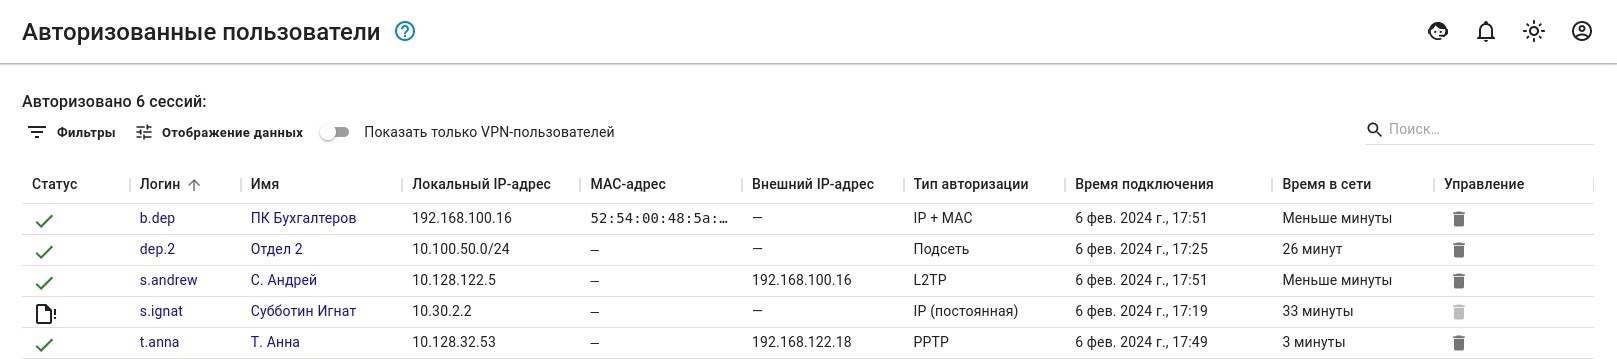
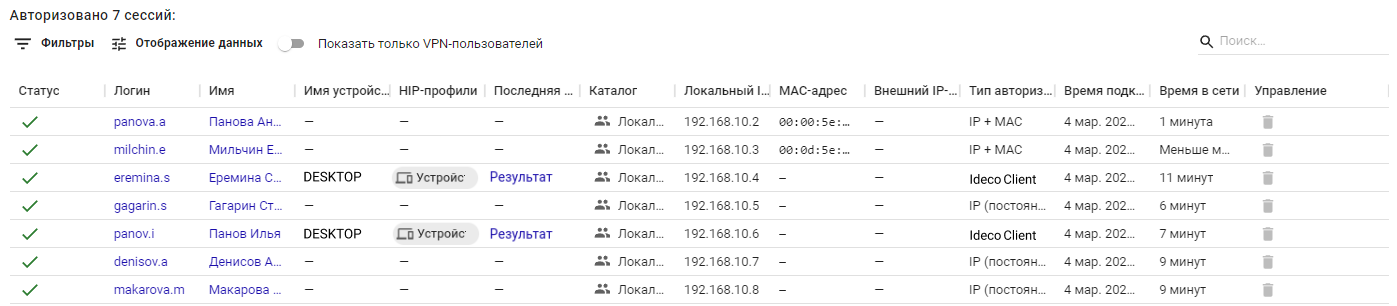
ICS-34828 УТМ. Добавить в ст-ю Авторизованные пользователи информацию о hip-профилях и возможности их просмотра

diff --git a/settings/monitor/authorized-users.md b/settings/monitor/authorized-users.md
@@ -4,15 +4,17 @@
 
 | Статус                                          | Описание                                                                                                                                                                         |
 | ----------------------------------------------- | -------------------------------------------------------------------------------------------------------------------------------------------------------------------------------- |
-| ![](../../.gitbook/assets/icon-autho-user.png)  | **Подключено**. Пользователь авторизован                                                                                                                                         |
-| ![](../../.gitbook/assets/icon-autho-user1.png) | **Ожидает второй фактор авторизации**. Пользователь создал и активировал VPN-подключение, но не прошел двухфакторную аутентификацию (подробнее в [статье](../users/authorization/vpn-connection/two-factor-authentication.md))     |
-| ![](../../.gitbook/assets/icon-autho-user2.png) | **Превышен лимит лицензии**. Данная сессия заблокирована. Появляется в случае, если превышено количество пользователей по лицензий или у пользователя уже есть активные 5 сессий |
-| ![](../../.gitbook/assets/icon-autho-user3.png) | **Сессия удаляется**. Появляется в случае, если была разорвана сессия с динамическим IP-адресом. Сессия с таким статусом будет удалена через 30 секунд                           |
+| ![](/.gitbook/assets/icon-autho-user.png)  | **Подключено**. Пользователь авторизован                                                                                                                                         |
+| ![](/.gitbook/assets/icon-autho-user1.png) | **Ожидает второй фактор авторизации**. Пользователь создал и активировал VPN-подключение, но не прошел двухфакторную аутентификацию (подробнее в [статье](/settings/users/two-factor-authentication.md))     |
+| ![](/.gitbook/assets/icon-autho-user2.png) | **Превышен лимит лицензии**. Данная сессия заблокирована. Появляется в случае, если превышено количество пользователей по лицензий или у пользователя уже есть активные 5 сессий |
+| ![](/.gitbook/assets/icon-autho-user3.png) | **Сессия удаляется**. Появляется в случае, если была разорвана сессия с динамическим IP-адресом. Сессия с таким статусом будет удалена через 30 секунд                           |
 
 Пример таблицы с авторизованными разными способами пользователями представлен на скриншоте ниже:
 
-![](../../.gitbook/assets/autho-user.png)
+![](/.gitbook/assets/autho-user.png)
 
 В столбце **Управление** можно разавторизовать пользователя при необходимости.
 
 Включение опции **Показать только VPN-пользователей** отфильтрует в таблице журнала информацию о всех VPN-сессиях по всем протоколам.
+
+В столбце **Последняя проверка** можно посмотреть результат проверки устройства подключенного через Ideco Client.
